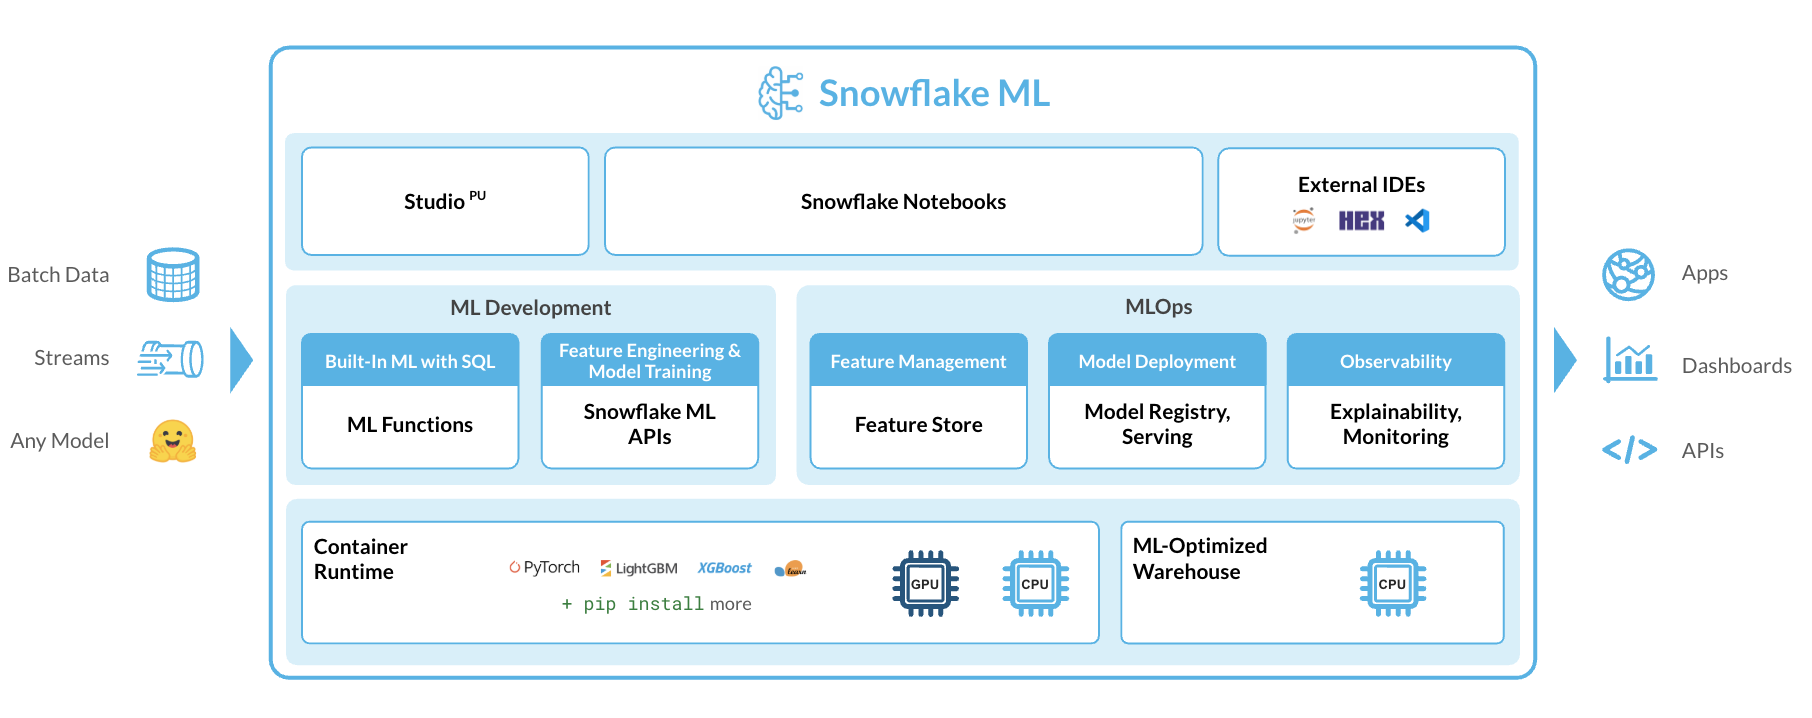
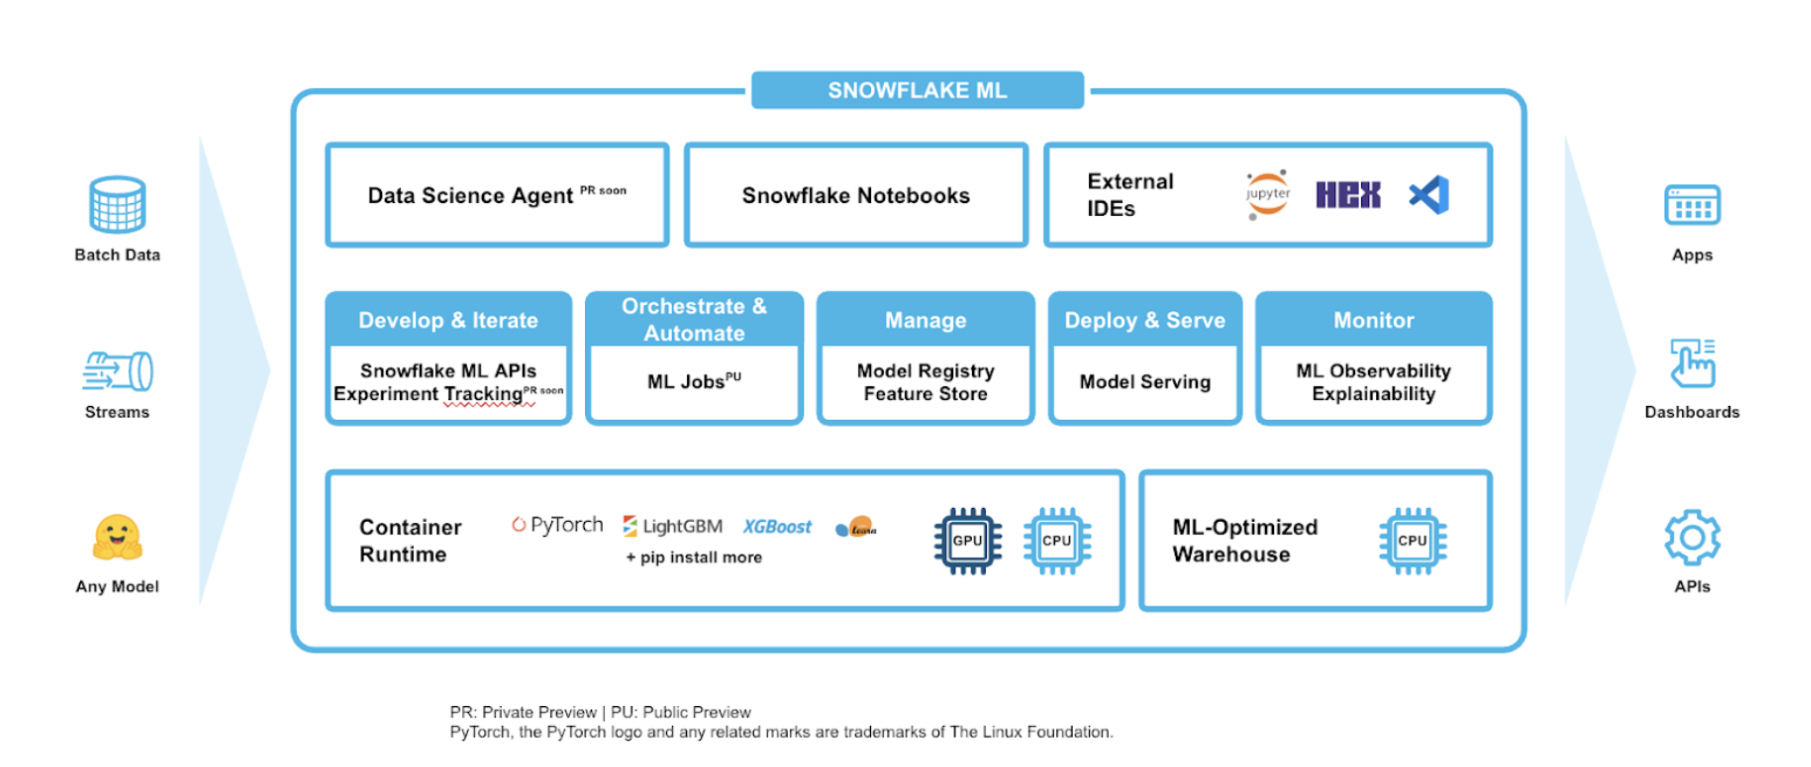
More language updates

diff --git a/site/sfguides/src/intro_to_machine_learning_with_snowpark_ml_for_python/intro_to_machine_learning_with_snowpark_ml_for_python.md b/site/sfguides/src/intro_to_machine_learning_with_snowpark_ml_for_python/intro_to_machine_learning_with_snowpark_ml_for_python.md
@@ -7,7 +7,7 @@ status: Published
 feedback link: https://github.com/Snowflake-Labs/sfguides/issues
 tags: Getting Started, Data Science, Data Engineering, Machine Learning, Snowpark
 
-# Getting Started with Snowflake ML
+# Getting Started with ML Development in Snowflake
 <!-- ------------------------ -->
 ## Overview 
 
@@ -21,10 +21,11 @@ Capabilities for model development and inference include:
 - **Snowflake Notebooks on Container Runtime** for a familiar notebook interface that runs on scalable compute optimized for efficient data loading and distributed model training and hyperparameter tuning over multiple CPUs or GPUs.
 - **Snowflake ML APIs** for distributed feature engineering, distributed training, and distributed hyperparameter optimization
 - **Snowflake Feature Store** for continuous, automated refreshes on batch or streaming data
+- **ML Jobs** to easily deploy and orchestrate ML pipelines over Snowflake data from any IDE of choice
 - **Snowflake Model Registry** to manage models and their metadata, with model serving for inference with CPUs or GPUs
 - **ML Lineage** to trace end-to-end feature and model lineage 
 - **ML Explainability** to better understand the features the model considers most impactful when generating predictions
-- **ML Monitoring** to monitor performance metrics for models running inference in Snowflake
+- **ML Observability** to monitor performance metrics for models running inference in Snowflake
 
 ![snowflake_ml_overview](assets/snowflake_ml_overview.png)
 
@@ -40,8 +41,8 @@ Learn more about model development with [Snowflake ML APIs](https://docs.snowfla
 
 ### What you will learn 
 This quickstart will focus on building a custom ML workflow using the following features: 
-- [Snowflake Notebooks](https://docs.snowflake.com/en/user-guide/ui-snowsight/notebooks), which comes pre-integrated with Snowflake ML capabilities 
-- [Snowflake ML Distributed Preprocessing APIs](https://docs.snowflake.com/developer-guide/snowflake-ml/modeling#distributed-preprocessing) for feature engineering.
+- [Snowflake Notebooks](https://docs.snowflake.com/en/user-guide/ui-snowsight/notebooks), which comes pre-integrated with Snowflake ML capabilities.
+- [Snowflake ML APIs](https://docs.snowflake.com/developer-guide/snowflake-ml/modeling#distributed-preprocessing) for distributed feature engineering and model training.
 - [Snowflake Model Registry](https://docs.snowflake.com/en/developer-guide/snowpark-ml/snowpark-ml-mlops), which provides scalable and secure model management of ML models - whether you trained them in Snowflake or another ML platform. Using these features, you can build and operationalize a complete ML workflow, taking advantage of Snowflake's scale and security features. It also includes an [explainability function](https://docs.snowflake.com/en/developer-guide/snowflake-ml/model-registry/model-explainability) based on [Shapley values](https://towardsdatascience.com/the-shapley-value-for-ml-models-f1100bff78d1).
 
 ### Prerequisites
@@ -52,19 +53,19 @@ This quickstart will focus on building a custom ML workflow using the following 
 - A Snowflake Account. Sign up for a 30-day [free trial](https://signup.snowflake.com/) account, if required.
 
 ### What You’ll Build 
-- A set of Snowflake Notebook on Container Runtime for Python:
+- A set of Snowflake Notebook on Container Runtime:
 
     - to load and clean data
-    - to perform features transformations on the data using Snowpark ML transformers
+    - to perform features transformations on the data
     - to train an XGBoost ML model
-    - to log models and execute batch inference in Snowflake using the Snowflake Model Registry
+    - to log models and execute batch inference in Snowflake
     - to apply a built-in explainability function to understand model performance 
 
 <!-- ------------------------ -->
 ## Using Snowflake Notebooks
 Duration: 2
 
-To get started using Snowflake Notebooks, first login to Snowsight and run the following [setup.sql](https://github.com/Snowflake-Labs/sfguide-intro-to-machine-learning-with-snowflake-ml-for-python/blob/main/scripts/setup.sql) in a SQL worksheet. This will connect to the git repo where all the Snowflake Notebooks are stored and create them for you in your Snowflake environment.
+To get started using Snowflake Notebooks, first login to Snowsight and run the following [setup.sql](https://github.com/Snowflake-Labs/sfguide-intro-to-machine-learning-with-snowflake-ml-for-python/blob/main/scripts/setup.sql) in a SQL worksheet. Sign up for a 30-day [free trial](https://signup.snowflake.com/) account, if required. This will connect to the git repo where all the Snowflake Notebooks are stored and create them for you in your Snowflake environment.
 
 ```sql
 USE ROLE ACCOUNTADMIN;
@@ -197,7 +198,7 @@ Duration: 10
 
 Navigate to `Notebooks` > `ML_HOL_FEATURE_TRANSFORM`.
 
-In this notebook, we will walk through a few transformations on the `diamonds` dataset that are included in the Snowflake ML APIs. We will also build a preprocessing pipeline to be used in the ML modeling notebook.
+In this notebook, we will walk through a few transformations on the `diamonds` dataset that are included in the Snowflake ML APIs. We will also build a preprocessing pipeline to be used in the notebook.
 
 <!-- ------------------------ -->
 ## ML Model Training and Inference
@@ -219,7 +220,7 @@ For more information, check out the resources below:
 - [Source Code on GitHub](https://github.com/Snowflake-Labs/sfguide-intro-to-machine-learning-with-snowflake-ml-for-python)
 - [Snowflake ML Webpage](https://www.snowflake.com/en/data-cloud/snowflake-ml/)
 - [Snowflake ML API Docs](https://docs.snowflake.com/en/developer-guide/snowpark-ml/index)
-- [Build an End-to-End ML Workflow in Snowflake
+- [Quickstart: Build an End-to-End ML Workflow in Snowflake
 ](https://quickstarts.snowflake.com/guide/end-to-end-ml-workflow/#0)
 - Check out other Snowflake ML quickstarts [here](https://docs.snowflake.com/en/developer-guide/snowflake-ml/quickstart)
 
